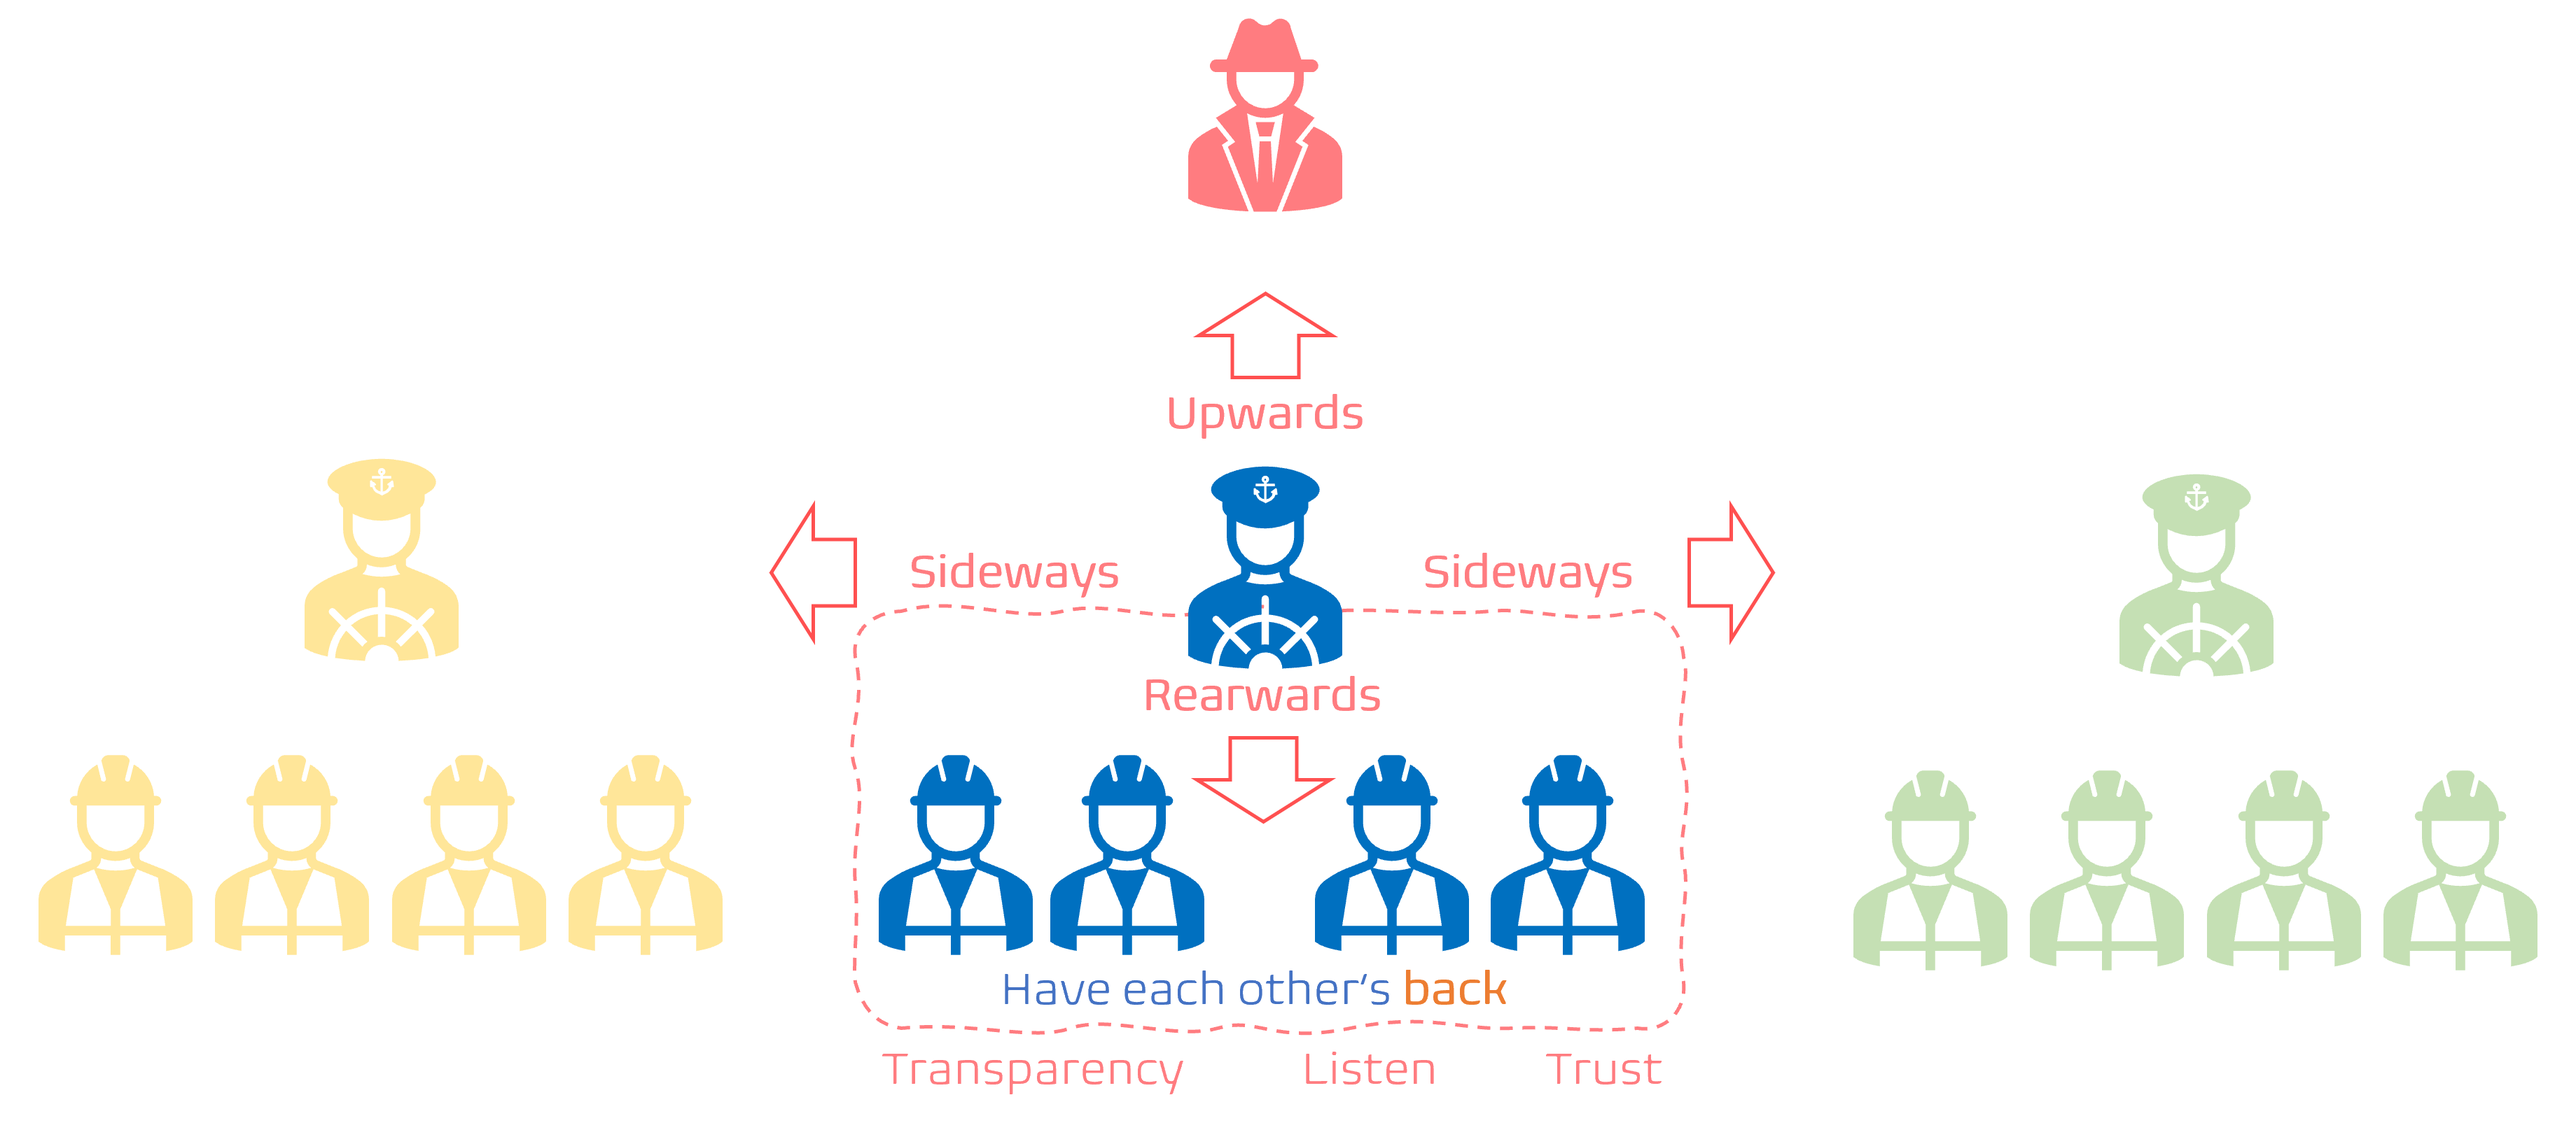
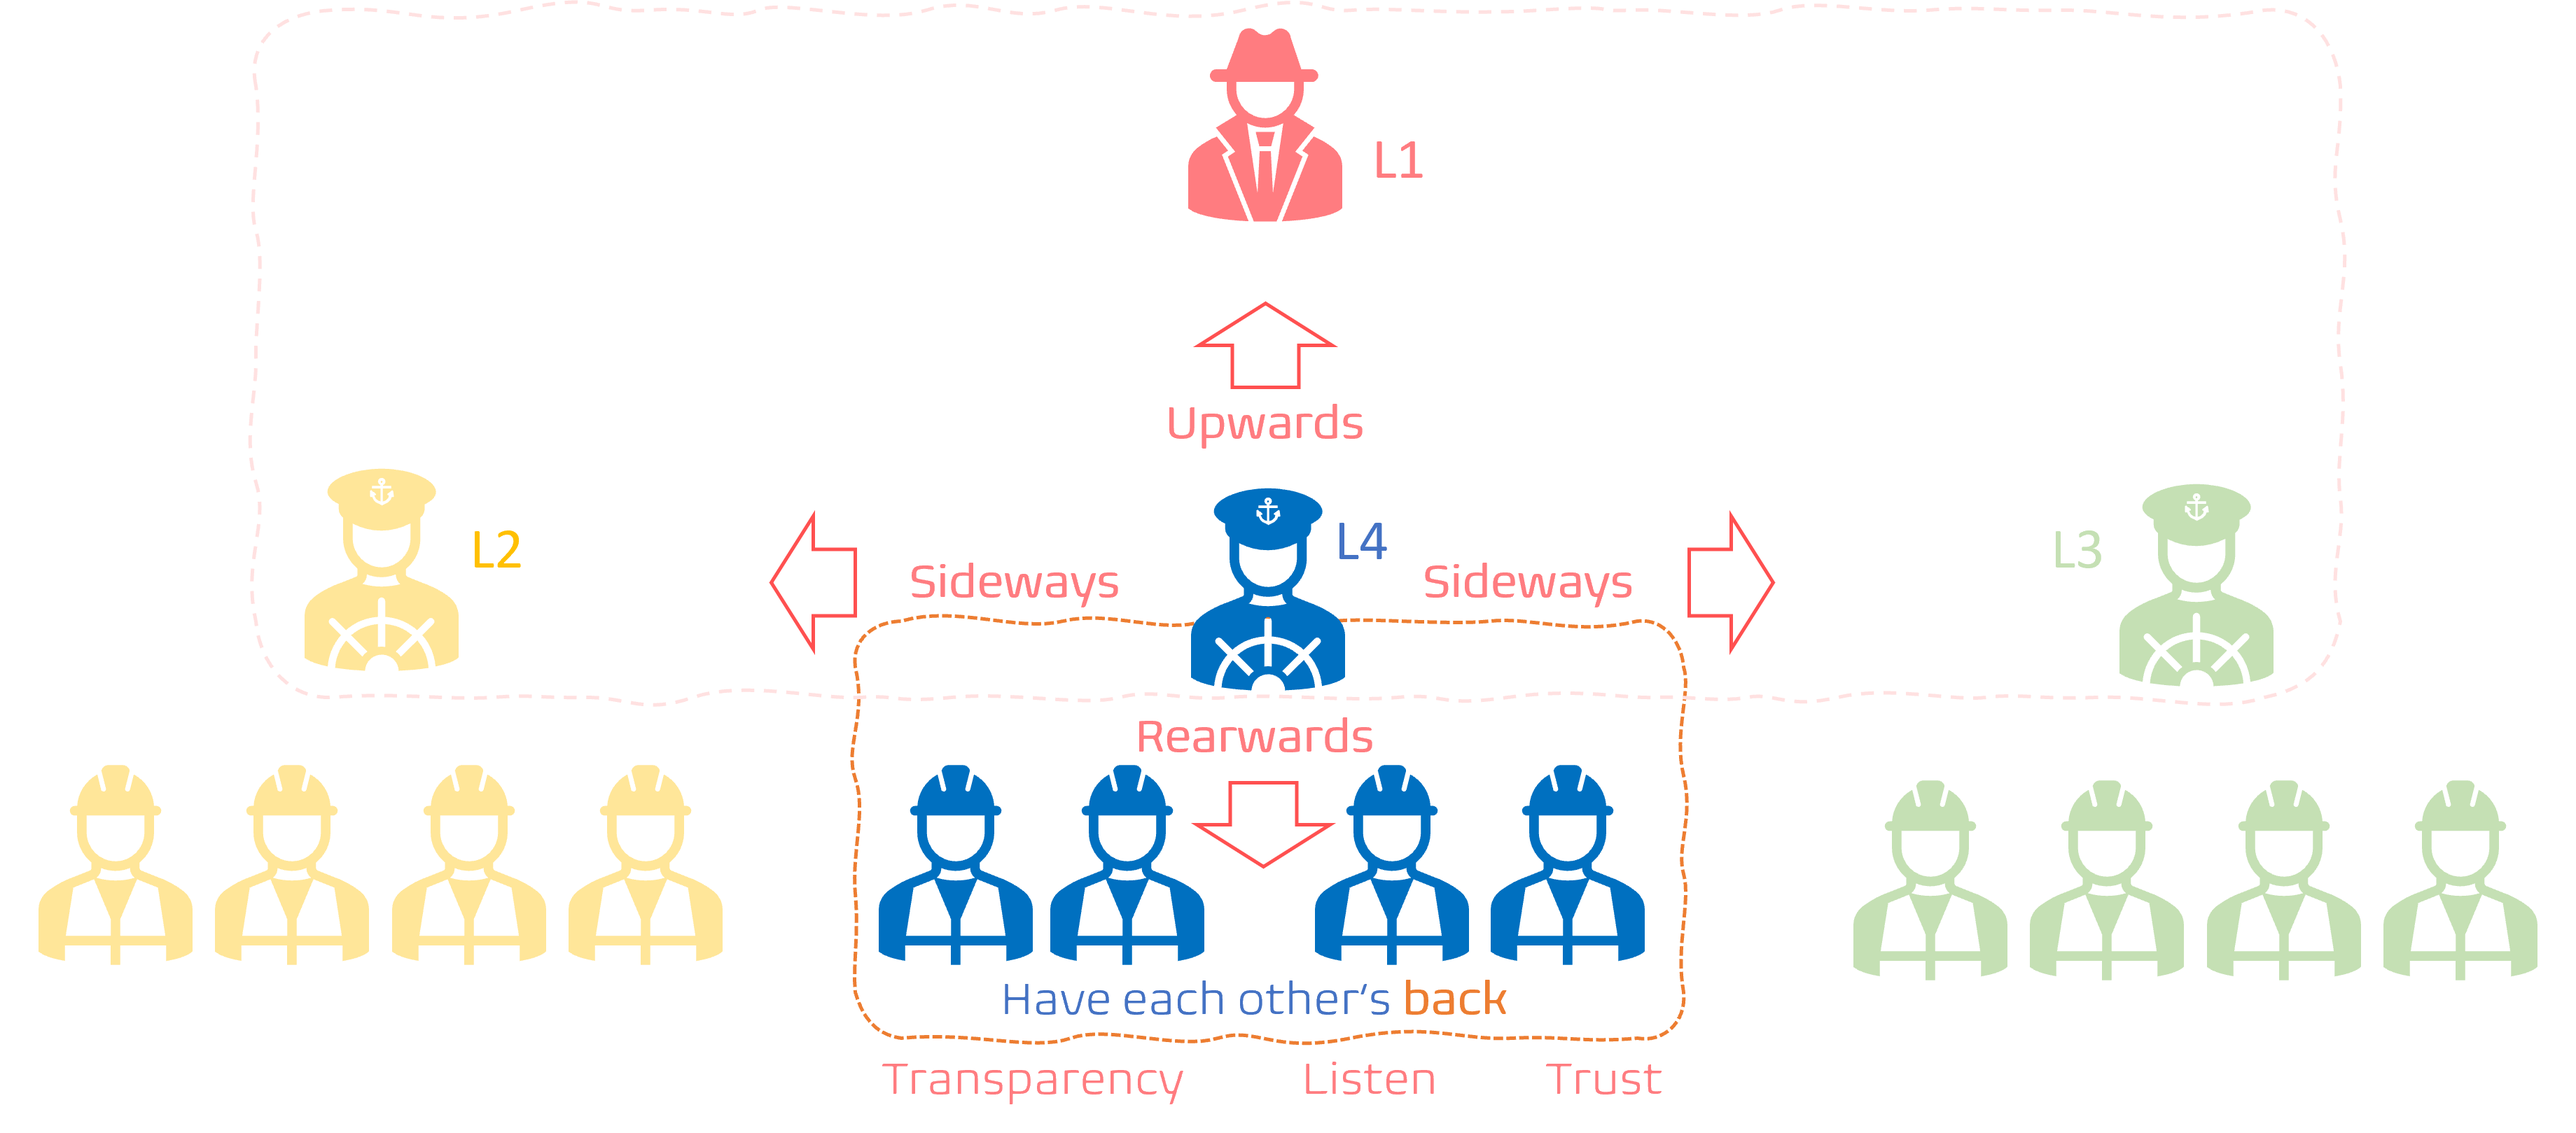
Final DRAFT for review

diff --git a/content/communication-guidance-sideways.md b/content/communication-guidance-sideways.md
@@ -21,53 +21,57 @@ The proposed value and outcome format, as proposed in the upwards communication 
     Imagine, if <WHAT>, we will <VALUE>.
 ```
 
-Let us start by communicating sideways.
+Before we peek into sideways communication, I must highlight an important epiphany I had. In the illustration, as above, you will notice my team in the center, with me (L4) communicating upwards, as discussed in [Communication Guidance Upwards](/communication-guidance-upwards), sideways, and rearwards. The epiphany is that what we are about to discuss as sideways and rearwards communication exists twice - #1 is my team and I, #2 are my peer managers and my leader L1. 
 
 ---
 
 # Communicating sideways with per managers
 
-<TBD>
+As the L1, L2, L3, and L4 team we must collaborate, actively listen, co-operate, partner to work to meet common and organizational goals, and most importantly **TRUST** each other. For example, if I have a problem or am struggling with an unknown or challenging process, I need to be able to rely on my peers, reach out for help, and know that we will confront any challenge and follow-through until we have a solution.  The same can be said for my team of engineers, who themselves are a cluster of collaborative peers.
 
-Communicating with peer managers can be important for collaborating effectively and achieving shared goals. Here are some tips for effective communication with peer managers:
+> ![up-side-rear](../images/communication-guidance-sideways-2.png)
 
-Schedule regular meetings: Set up regular meetings with your peer managers to discuss current projects, issues, and progress. This will help ensure that everyone is on the same page and working towards common goals.
+To improve the sideways communication and collaboration, I recommend that you:
 
-Be respectful: Treat your peer managers with respect and professionalism. Avoid talking down to them or making assumptions about their knowledge or abilities.
+- **Be respectful**, caring, and never talk down to them.
+- **Practice Active listening**, to understand your peers as humanoids and their unique needs. Silence is an effective ally!
+- **Use clear and concise language**, no TLAs (two/three lettered acronyms), technical jargon, and as my Geography teacher always said no "waffling." Keep it simple, short, concise, and clear. Do not forget to follow up to ensure that your peers are clear on expectations and next steps.
+- **Be pro-active**, create a communication matrix and regularly reach out to your peers to build a strong and trusting relationship.
+- **Focus on solutions** over placing blame or critique. As I always tell my team - "we will burn up or succeed as a team."
 
-Listen actively: Listen carefully to what your peer managers have to say and ask questions to clarify any misunderstandings. Try to understand their perspective and be open to their ideas and suggestions.
 
-Use clear and concise language: Avoid using technical jargon or overly complex language that your peer managers may not be familiar with. Use simple and clear language to communicate your ideas effectively.
-
-Focus on solutions: When discussing issues or problems, focus on finding solutions rather than placing blame or criticizing. Collaborate with your peer managers to find solutions that work for everyone.
-
-Follow up: After meetings or discussions, follow up with your peer managers to ensure that everyone is clear on next steps and any actions that need to be taken.
-
-Be proactive: Don't wait for your peer managers to initiate communication. Reach out to them regularly to stay connected and build a strong working relationship.
+> Some leadership anti-patterns you may recognize, for future discussion:
+>
+> - Knights in shining armour.
+> - Blasphemous dictators.
+> - Zero trust, omnipresent, micro-managers.
+>
 
 ---
 
 # Communicating rearwards with my team
 
-<TBD>
+For me, the most important part on the illustration is my team and I. It is my responsibility to lead them, protect them, and empower them. As quoted by L.David Marquet in [Turn the Ship Around](TBD), we "give our team control over WHAT they work on and HOW they work", creating a team of leaders and allowing you "not to be missed after you depart."
 
-Effective communication is essential for building a strong and successful team. Here are some tips for communicating with your team:
+> ![up-side-rear](../images/communication-guidance-sideways-3.png)
 
-Establish open communication: Encourage your team members to share their thoughts, ideas, and concerns with you. Create a safe and supportive environment where everyone feels comfortable speaking up.
+To improve reward communication, I recommend that you:
 
-Be clear and concise: Use simple and clear language when communicating with your team. Avoid using technical jargon or complicated terms that may confuse your team members.
+- **Establish transparency** empowering everyone to be informed, pro-active and supportive.
+- **Establish open and safe communication** encouraging everyone to share their ideas, concerns, thoughts, and even feel safe to **vent** as needed.
+- **Be respectful**, as discussed.
+- **Practice Active listening**, as discussed.
+- **Use clear and concise language**, as discussed.
+- **Provide regular and candid feedback** on goals, performance, and opportunities to continuously improve.
+- **Be approachable** and available to your team, which brings me to a few more leadership anti-patterns you may recognize:
 
-Listen actively: Listen carefully to what your team members have to say. Show that you value their input and are open to their ideas.
+>
+> - "Always behind closed doors office hermit."
+> - "Secretive and vanishing Houdini."
+> - "Command and control dictator."
+>
 
-Provide regular feedback: Provide your team members with regular feedback on their performance. Recognize their strengths and provide constructive criticism to help them improve.
-
-Be approachable: Be approachable and available to your team members. Encourage them to come to you with any questions or concerns they may have.
-
-Set clear expectations: Set clear expectations for your team members. Be specific about their roles and responsibilities, and provide them with the necessary resources and support to meet their goals.
-
-Use a variety of communication channels: Use a variety of communication channels, such as email, instant messaging, and video conferencing, to stay in touch with your team members. This will help ensure that everyone is on the same page and working towards common goals.
-
-Celebrate successes: Celebrate your team's successes and milestones. This will help boost morale and motivate your team to continue working hard.
+Lastly, why do I refer to rearward communication. Well, something I learnt in my military days was to always lead by example and in the front, which means my team is not only behind me, but also **has my back**. 
 
 ---
 
